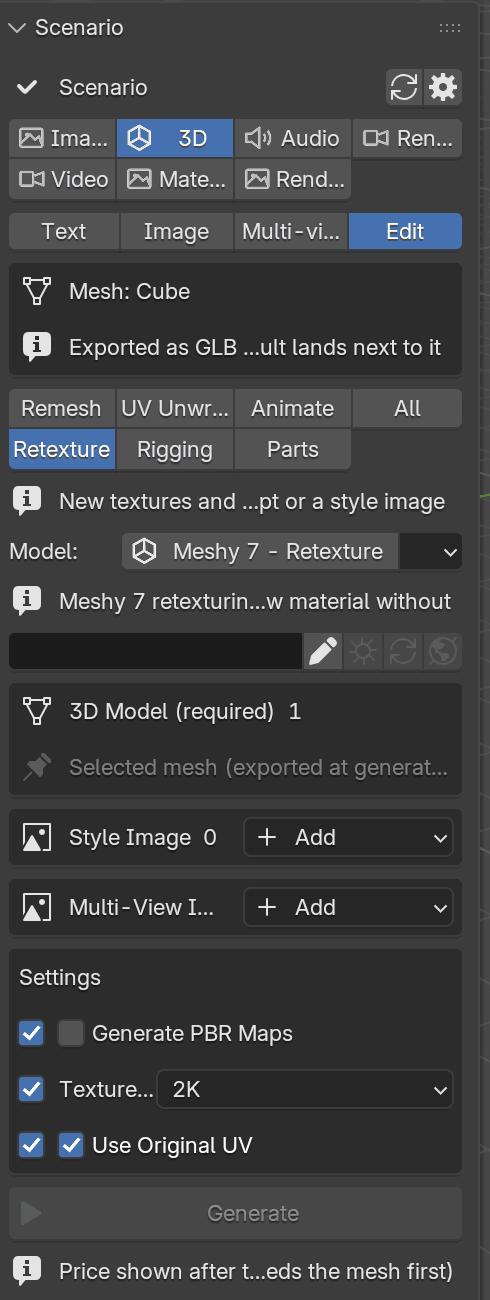
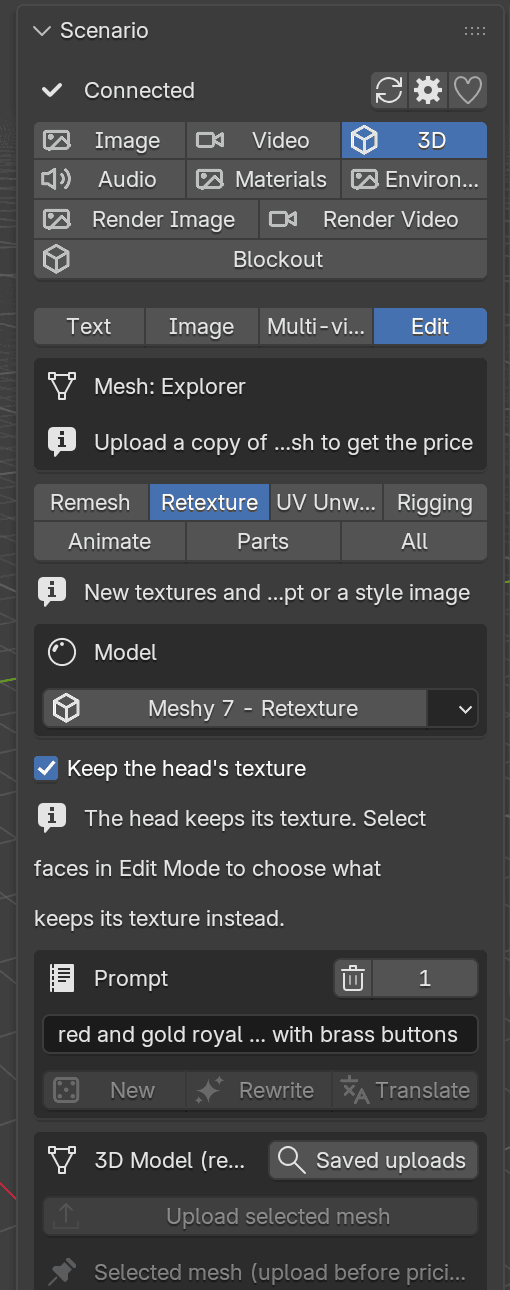
docs(docs): refresh the guide screenshots of the Blockout, 3D, Render and Environment forms
The handbook text already follows #650 to #652, but six of its screenshots
still showed the earlier UI: Blockout with Type and Scale, Meshy as the
text-to-3D default, Render Image and Render Video without Capture and
upload scene, and Skybox Flux on Environment. Capture them again on the
#652 build and add one of the Animate task's text-to-motion form.

The blockout_live probe no longer sets the removed scene_type and scale
properties, the blockout probe deselects after framing so the group colours
show, and SCENARIO_PROBE_TASK picks the Edit task for 3D Edit captures.

Changed region(s): [[0.0, 0.031, 0.9796, 1.0], [0.0612, 0.0, 0.2755, 0.031], [0.0, 0.155, 0.0306, 0.186]]

diff --git a/tools/gui_screenshot.py b/tools/gui_screenshot.py
@@ -56,7 +56,12 @@ def _prepare():
             bpy.context.scene.scenario.three_d_mode = (
                 "EDIT"  # edit3d lives under the 3D tab in Edit mode
             )
-            bpy.context.scene.scenario.edit3d_task = "RETEXTURE"
+            # SCENARIO_PROBE_TASK picks the Edit task (REMESH, RETEXTURE, UV, RIG, ANIMATE or PARTS)
+            bpy.context.scene.scenario.edit3d_task = os.environ.get(
+                "SCENARIO_PROBE_TASK", "RETEXTURE"
+            )
+            if PROMPT:
+                bpy.context.scene.scenario.lane_state("edit3d").prompt = PROMPT
             probe_model = os.environ.get("SCENARIO_PROBE_MODEL")
             if probe_model:
                 # force a specific edit3d model (e.g. Rodin Bang) and trigger its async schema fetch
@@ -192,6 +197,8 @@ def _prepare():
                             with bpy.context.temp_override(area=a, region=region):
                                 bpy.ops.object.select_all(action="SELECT")
                                 bpy.ops.view3d.view_selected()
+                                # deselect again so the group colours show without outlines
+                                bpy.ops.object.select_all(action="DESELECT")
         if ACTION == "blockout_live":
             # Prepare the form only. Screenshot probes must never submit a paid design.
             for o in list(bpy.context.scene.objects):
@@ -202,7 +209,6 @@ def _prepare():
                 PROMPT
                 or "a small artist's studio: a desk, an easel, shelves, a couch, a rug, a window"
             )
-            bo.scene_type, bo.scale = "interior", "room"
             bpy.context.scene.scenario.lane = "blockout"
             print("GUI probe: skipped paid blockout design")
         if ACTION == "generations":

diff --git a/docs/USER_GUIDE.md b/docs/USER_GUIDE.md
@@ -509,7 +509,7 @@ Meshy, Rodin, Tripo and Hunyuan, plus worlds such as Marble, HY World and
 TripoSplat. Text and Image modes start with Tripo P2 at real-world size
 (**Auto Size**) and 50,000 faces; change either in the form.
 
-![3D lane in Text mode with Meshy selected, texture options and a target polygon count](images/panel-3d.png)
+![3D lane in Text mode with Tripo P2 Text to 3D, a prompt, Face Limit 50000, Auto Size, texture options and Generate with its price](images/panel-3d.png)
 
 **Importing a model.** Choose **Import <format> model (N)**, such as
 **Import GLB model (1)**, for the main model, or **Import alternate: <format> (N)**
@@ -571,6 +571,8 @@ too. Claude Opus 5.5 3D and GPT-6 Astra 3D, next in the list, repaint only what
 your prompt names and keep the rest themselves, but take 10 to 16 minutes on a
 typical character; the form shows the expected wait.
 
+![3D tab in Edit mode on a rigged character: the Retexture task with Meshy 7 Retexture, Keep the head's texture on, a prompt and the selected mesh upload](images/panel-3d-edit.png)
+
 **Animate** starts with text-to-motion models, Uthana Text to Motion 3.0 and Viggle
 Text to Motion: describe the motion, such as "walks forward four steps then
 waves", and generate. They upload nothing and need a mesh that already has a rig
@@ -586,14 +588,14 @@ and type any ID from
 **Cartwheel Text to Motion** also animates your uploaded character from a prompt;
 it is listed here, not in Text mode.
 
+![3D tab in Edit mode on a rigged character: the Animate task with Uthana Text to Motion 3.0, a walking prompt, frame rate, duration and Generate with its price](images/panel-3d-animate.png)
+
 A mesh too dense to take edits in place shows its triangle count and suggests
 remeshing it first; its results still import as new objects. **Apply animation**
 still works on a rigged mesh that dense, since it changes only the rig.
 
 To put the result back on your mesh, see
 [Apply a saved mesh edit](#apply-a-saved-mesh-edit).
-
-![3D tab in Edit mode: the selected mesh, task tabs Remesh, Retexture, UV Unwrap, Rigging, Animate, Parts, Meshy 7 Retexture and its parameters](images/panel-3d-edit.png)
 
 ### Materials
 
@@ -671,7 +673,7 @@ apply; to start a clip from one, use **Use as video first frame**
 form through local MCP; see the
 [agent preparation sequence](MCP.md#preparing-render-image-and-render-video).
 
-![Render Image lane: Scene to render, model Gemini 3.1, the Look field, style images with the pinned capture row, parameters and Generate](images/panel-render-image.png)
+![Render Image lane: Scene to render on the scene camera, Capture and upload scene, GPT Image 2.5 Sunburst, the Look field and style image slots](images/panel-render-image.png)
 
 ### Render Video
 
@@ -690,7 +692,7 @@ takes a reference video. The look, reference frames and first frame are in the
 - **Look** and **Reference frames**: as the look and style images in Render
   Image. Prompt Spark needs a [first frame](#first-frame).
 
-![Render Video lane: Clip to render, the Camera path planner with an orbit built, Seedance 2.0, the Look field with Prompt Spark, the first frame row and style images](images/panel-render-video.png)
+![Render Video lane: Clip to render on the scene camera with Match timeline and Capture and upload scene, the Camera path planner with an orbit built, and Seedance 2.5](images/panel-render-video.png)
 
 #### Camera path
 
@@ -717,7 +719,10 @@ for them, the image guides the opening look instead, and the form says so.
 
 ### Blockout
 
-![Blockout tab with Scene, Type and Scale controls above a stored example layout and Rebuild, Clear and Refine actions](images/panel-blockout.png)
+![Blockout tab with the scene description, a reference image field, Density, Best and Fast, Colours camera and light, a priced Generate blockout button and a coloured example layout with its camera](images/panel-blockout.png)
+
+*The layout is a sample plan built locally for this screenshot, not a model response;
+the price is an example.*
 
 Turn a scene description or a reference picture into a greybox layout of
 coloured primitives, grouped in a `Blockout` collection.
@@ -753,7 +758,7 @@ reverts it); choose **Build blockout** to update the geometry.
 
 ### Environment
 
-![Environment tab in Generate mode: Scenario Skybox Flux.1 with a prompt, a reference panorama, Style, Skybox Count and Sampling Steps settings, and Generate with its price](images/panel-environment.png)
+![Environment tab in Generate mode: Scenario Skybox GPT with a prompt, reference image slots, a 3840 x 1920 panorama size, Quality and Generate with its price](images/panel-environment.png)
 
 Generate a 360 panorama for the scene World. Modes:
 

diff --git a/CONTRIBUTING.md b/CONTRIBUTING.md
@@ -212,6 +212,7 @@ the default unit-test collection and are not added to PR workflows.
 | `SCENARIO_SMOKE` | `tools/smoke_image.py`, `tools/smoke_suite.py`, `tools/smoke_inputs.py` | `=1` opts into explicitly authorized smoke spending or reference uploads; keep this out of dotenv files | Developer, on the command line after authorization; the protected smoke workflow |
 | `SCENARIO_GUI_PROBE` | `scenario/blender/operators.py`: `probe_mode`; Film and model-job approvals in `scenario/blender/`; `scenario/mcp/tools_scenario.py`: `generate`; `tools/capture_gui_scene.py` | `=1` blocks panel, Film, workflow and MCP generation during screenshots and desktop review; it is not a general network or spending sandbox | `tools/capture_gui.py`, `tools/gui_screenshot.py`, `tools/desktop_review.py` |
 | `SCENARIO_PROBE_MODEL` | `tools/gui_screenshot.py` | Selects a model for 3D-tab screenshots | Test tools |
+| `SCENARIO_PROBE_TASK` | `tools/gui_screenshot.py` | Selects the Edit task, such as `ANIMATE`, for 3D Edit screenshots (`RETEXTURE` by default) | Test tools |
 | `SCENARIO_SHOT_SOURCE` | `tests/blender/test_shot_planner.py` | `=1` loads the shot planner from source rather than the installed extension; unsuitable as evidence of ZIP acceptance | Test tools |
 | `SCHEMA_CACHE` | `tools/audit_payloads.py` | Optional private persistent schema-cache root; otherwise each run uses a new temporary cache. Live subdirectories are partitioned by credentials, project and API base URL | Developer |
 
